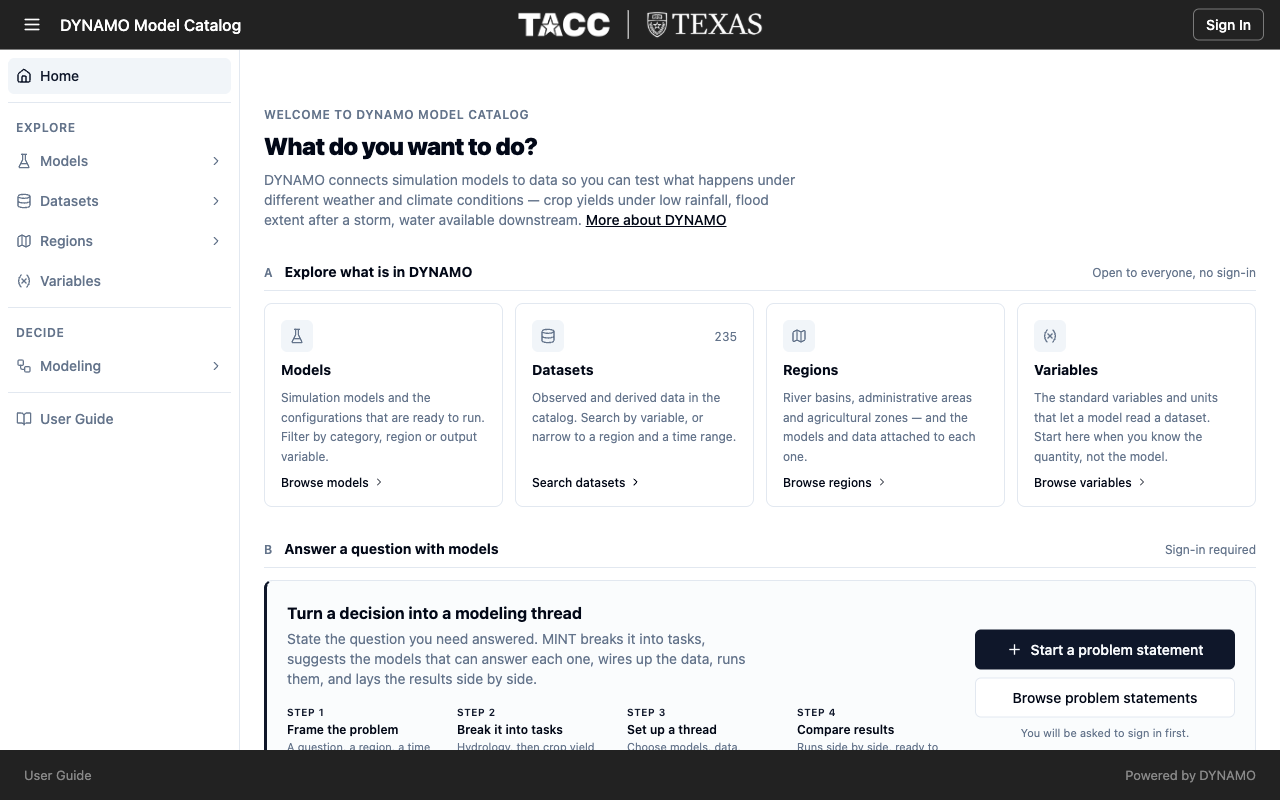
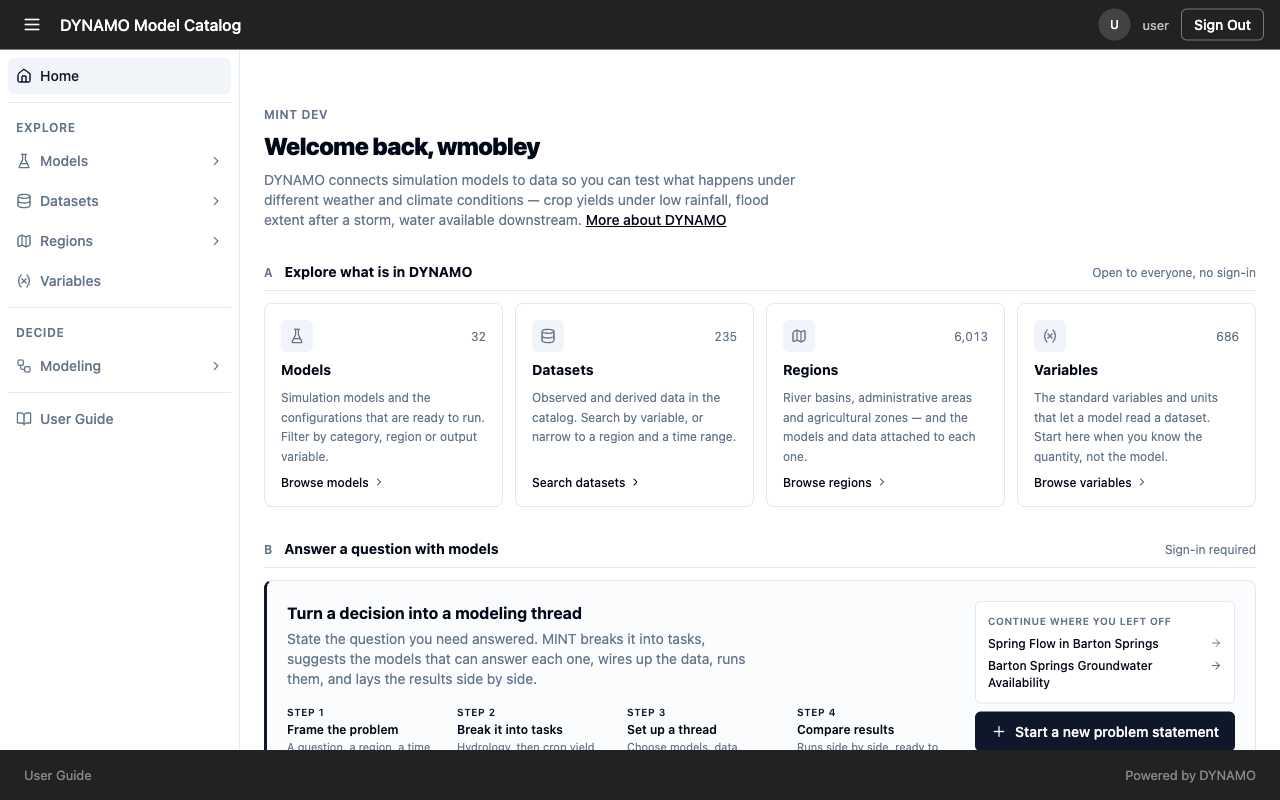
docs(ui): use signed-in dev screenshots and add a model-search animation

diff --git a/ui-react/docs/docs/discovery.md b/ui-react/docs/docs/discovery.md
@@ -4,6 +4,14 @@ Inspect a model’s scientific purpose, regional applicability, required inputs,
 
 A shared variable name is a useful discovery clue. Check the full input contract and coverage before assuming a dataset is ready for a model.
 
+## Search for models
+
+Open **Models → Browse Models**. Type part of a model name to filter the list, or narrow it with **Region**, **Category** and **Output variable**. Select a model to expand its configurations, then select a configuration to see its description, authors, inputs and outputs. Each input lists its format, standard variable, unit and whether it is required.
+
+![Animation: typing "hand" into the model filter, then selecting the HAND model configuration to see its inputs and outputs](assets/images/model-search.gif)
+
+![The Models page with a configuration selected, showing its description, authors, and inputs](assets/images/models-detail.png)
+
 ## Search for datasets
 
 Open **Datasets → Browse**. Type a phrase such as "groundwater" into the search box, narrow the temporal range, or use **Draw box** on the map to keep only datasets that overlap an area. Browsing datasets does not require signing in.
@@ -12,10 +20,16 @@ Open **Datasets → Browse**. Type a phrase such as "groundwater" into the searc
 
 ![The Datasets page, with the search box, temporal coverage sliders, and spatial coverage map](assets/images/datasets-browse.png)
 
+## Find a standard variable
+
+**Variables** lists the standard variables that models and datasets share, with their category and units. Search by name or filter by category to find the variable that matches your data or model input.
+
+![The Explore Variables page with a searchable table of standard variables](assets/images/variables.png)
+
 ## Browse by region
 
 **Regions → Overview** groups geographic areas by category, such as agricultural and hydrological regions. Each dataset and model is linked to a region.
 
 ![The Regions overview page, listing region categories](assets/images/regions.png)
 
-Detailed model-search steps are pending verification against the supported release.
+Check each model's full input contract and each dataset's coverage before assuming they fit together.

diff --git a/ui-react/docs/docs/data-scientist/register-model.md b/ui-react/docs/docs/data-scientist/register-model.md
@@ -5,3 +5,9 @@ Gather the configuration name and description, executable component reference, a
 The source guide describes a React configuration-registration form and owned-configuration editing. Field persistence, permissions, and exact steps must be checked against the supported release before publication.
 
 Planned success checks: saved metadata persists, the configuration is discoverable, its inputs can be satisfied, and its execution reference resolves correctly.
+
+## The registration form
+
+**Models → Register Model Configuration** opens the form. It asks for a configuration name (required) and description, then the component location: a Tapis application or any URL. A configuration with no component location can be described but cannot be run. You must be signed in.
+
+![The Register Model Configuration form, showing the name, description, and component location fields](assets/images/model-register.png)

diff --git a/ui-react/docs/docs/data-scientist/transformations.md b/ui-react/docs/docs/data-scientist/transformations.md
@@ -3,3 +3,9 @@
 Reusable ETL processes describe transformations between explicit input and output contracts. Record scientific variables, units, formats, runtime references, and versions so users can assess compatibility.
 
 Planned walkthrough: register and inspect a transformation, verify compatibility, and maintain regional and semantic metadata where permitted. Permissions and exact form behavior remain to be verified.
+
+## Browse existing transformations
+
+**Models → Browse ETL Processes** lists registered transformations. Each card shows its version, runtime, and its input and output contracts, which are scientific variables and formats. Use **Register ETL process** to add one. You must be signed in to register.
+
+![The ETL processes page listing transformations with their runtime, inputs, and outputs](assets/images/etl-browse.png)

diff --git a/ui-react/docs/docs/facilitator/frame-question.md b/ui-react/docs/docs/facilitator/frame-question.md
@@ -3,3 +3,9 @@
 The source guide describes a problem statement containing tasks and working threads. Prepare a goal, region, time period, desired outcome, and any driver you want to investigate.
 
 Planned walkthrough: create or reopen a problem statement, add a task/thread, and review the framing before resource selection. Exact labels and prerequisites remain to be verified.
+
+## Existing problem statements
+
+**Modeling → Problem Statements** lists the statements already created. Choose a region to narrow the list or search by name; each card shows its task, sub-task and model counts, its time period, and who last updated it. Use **Add** to start a new one. You must be signed in.
+
+![The Problem Statements page with a region selector, search box, Add button, and two problem statement cards](assets/images/problem-statements.png)
